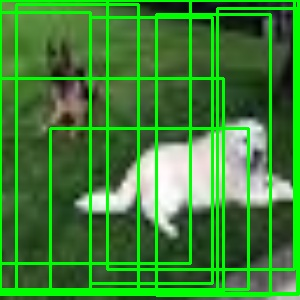
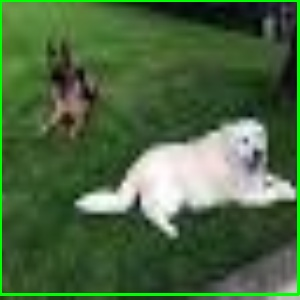
update due to upstream

Changed region(s): [[0.0, 0.0, 1.0, 1.0]]

diff --git a/example/object-detection/src/main.rs b/example/object-detection/src/main.rs
@@ -33,15 +33,6 @@ fn main() {
     // Described in https://www.tensorflow.org/lite/examples/object_detection/overview#output_signature
     // 0 Locations: Multidimensional array of [N][4] floating point values between 0 and 1, the inner arrays representing bounding boxes in the form [top, left, bottom, right]
     let locations: Vec<f32> = session.get_output("TFLite_Detection_PostProcess");
-    for i in 0..locations.len() / 4 {
-        let h = i * 4;
-        let left = (300 as f32 * locations[h]) as u32;
-        let top = (300 as f32 * locations[h + 1]) as u32;
-        let right = (300 as f32 * locations[h + 2]) as u32;
-        let bottom = (300 as f32 * locations[h + 3]) as u32;
-        println!("{}: ({}, {}, {}, {})", i, left, top, right, bottom);
-        let img = rectangle(img, top, left, bottom, right);
-    }
     // 1 Classes: Array of N integers (output as floating point values) each indicating the index of a class label from the labels file
     let class_names: Vec<String> = fs::read_to_string("asset/labelmap.txt")
         .expect("failed to open labelmap")
@@ -49,18 +40,26 @@ fn main() {
         .map(|s| s.to_string())
         .collect();
     let classes: Vec<f32> = session.get_output("TFLite_Detection_PostProcess:1");
-    for f in classes {
-        println!("{}: class {}", f, class_names[f as usize]);
-    }
     // 2 Scores: Array of N floating point values between 0 and 1 representing probability that a class was detected
     let scores: Vec<f32> = session.get_output("TFLite_Detection_PostProcess:2");
-    println!("Scores: {:?}", scores);
     // 3 Number of detections: Integer value of N
-    let number_of_detections: Vec<u8> = session.get_output("TFLite_Detection_PostProcess:3");
-    let num = u32::from_ne_bytes(number_of_detections[0..4].try_into().unwrap());
-    println!("Number of detections: {}", num);
+    let _number_of_detections: Vec<u8> = session.get_output("TFLite_Detection_PostProcess:3");
+    for i in 0..locations.len() / 4 {
+        let class = classes[i];
+        let class_name = &class_names[class as usize];
+        let score = scores[i];
+        if score < 0.5 {
+            continue;
+        }
+        let image_size = 300;
+        let left = (image_size as f32 * locations[i * 4]) as u32;
+        let top = (image_size as f32 * locations[i * 4 + 1]) as u32;
+        let right = (image_size as f32 * locations[i * 4 + 2]) as u32;
+        let bottom = (image_size as f32 * locations[i * 4 + 3]) as u32;
+        rectangle(img, top, left, bottom, right);
+    }
 
-    let img = imwrite("output.jpg", img);
+    imwrite("output.jpg", img);
 
     println!("done");
 }

diff --git a/src/lib.rs b/src/lib.rs
@@ -42,6 +42,6 @@ pub fn normalize(m: MatKey) -> MatKey {
 pub fn bilinear_sampling(m: MatKey, w: u32, h: u32) -> MatKey {
     unsafe { generated::bilinear_sampling(m, w, h) }
 }
-pub fn rectangle(m: MatKey, top: u32, left: u32, bottom: u32, right: u32) -> MatKey {
+pub fn rectangle(m: MatKey, top: u32, left: u32, bottom: u32, right: u32) {
     unsafe { generated::rectangle(m, top, left, bottom, right) }
 }
